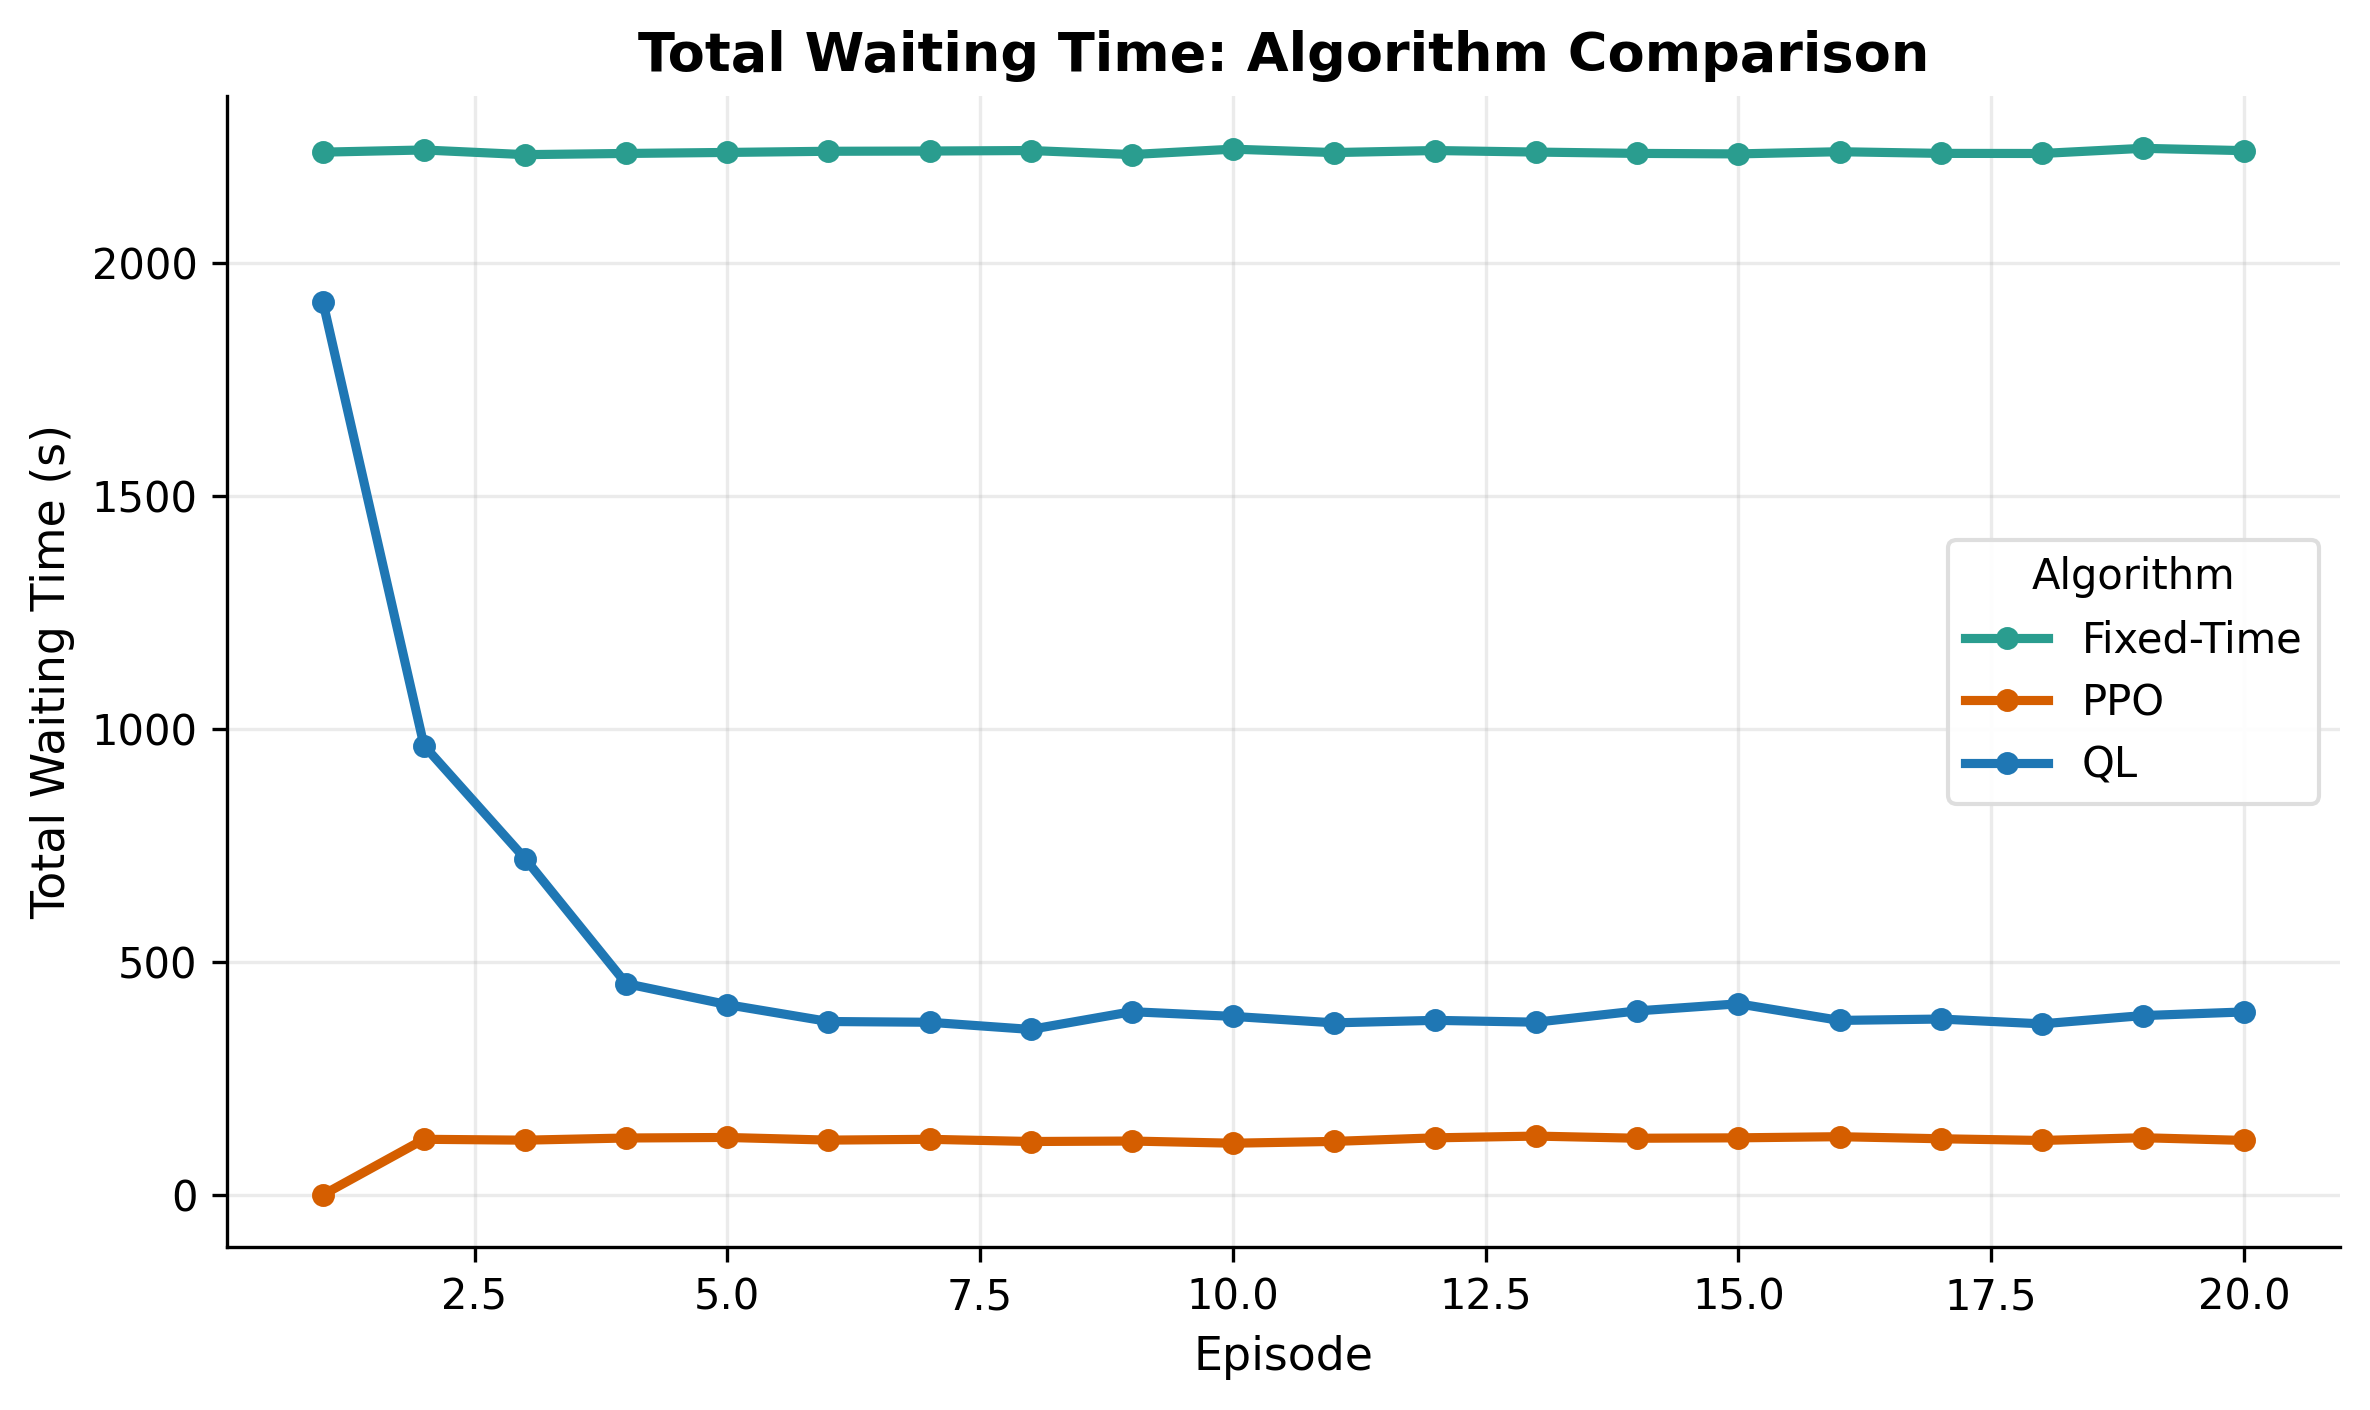
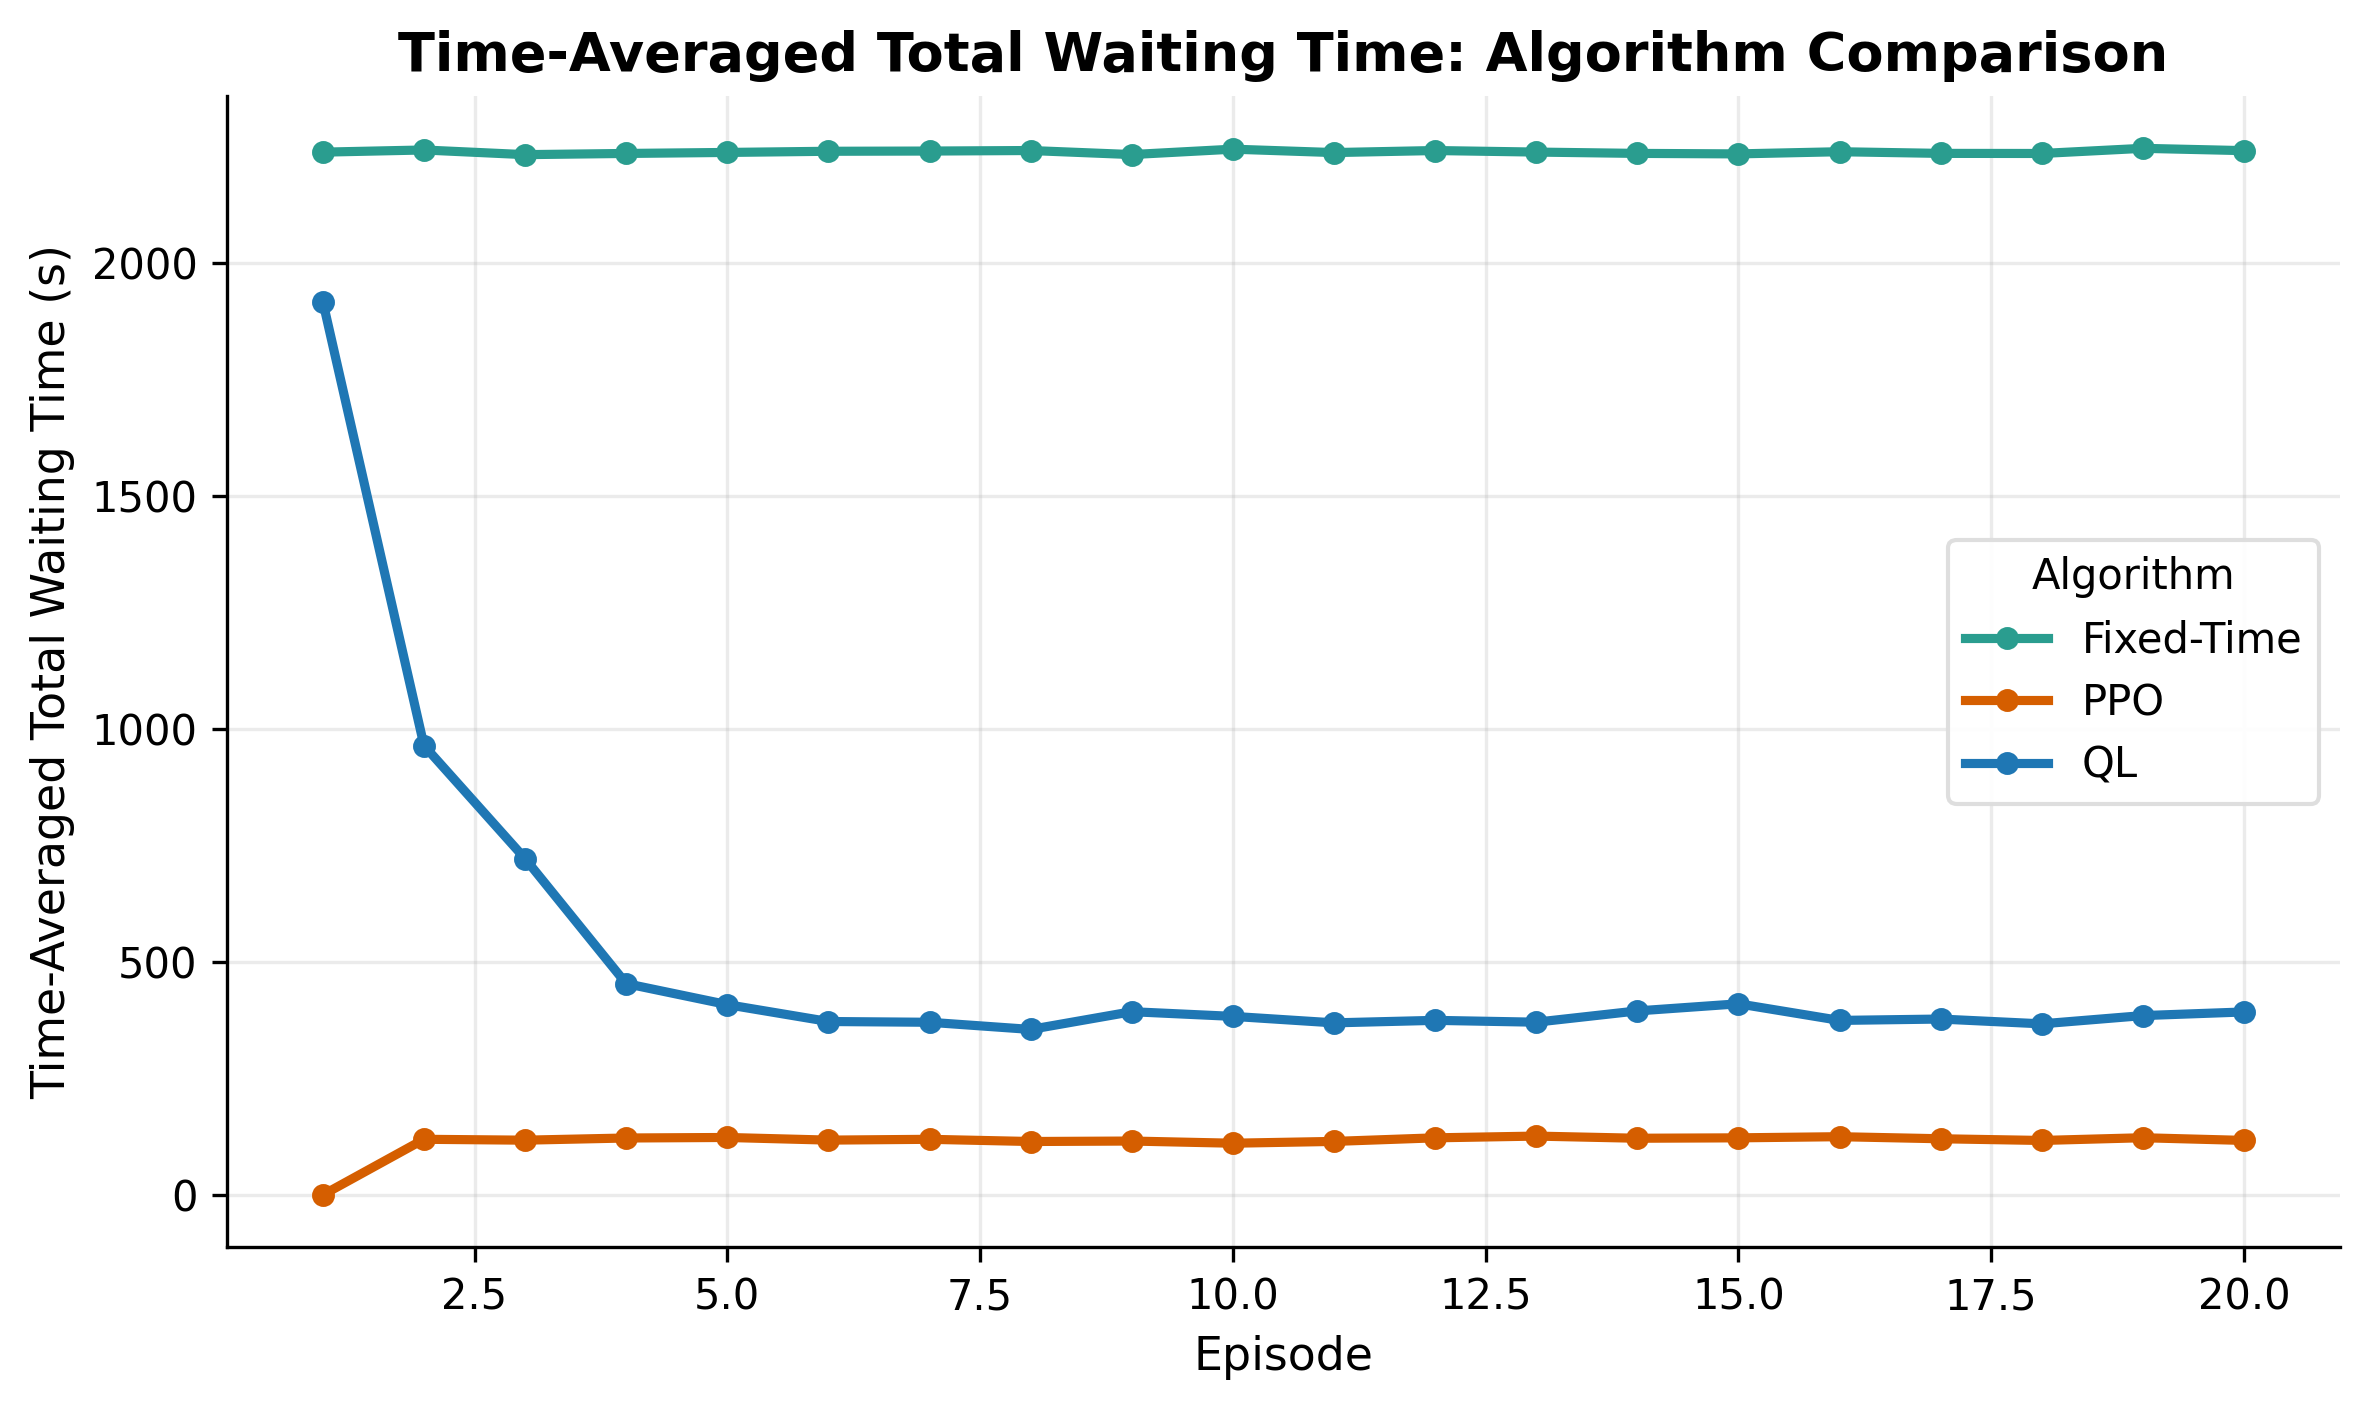
Sync total-wait plot labels with thesis text

Changed region(s): [[0.1561, 0.0, 0.9055, 0.0624], [0.0, 0.1872, 0.0312, 0.7801]]

diff --git a/experiments/plot_total_wait_comparison.py b/experiments/plot_total_wait_comparison.py
@@ -89,8 +89,8 @@ def main():
 
     style_axis(
         ax,
-        title="Total Waiting Time: Algorithm Comparison",
-        ylabel="Total Waiting Time (s)",
+        title="Time-Averaged Total Waiting Time: Algorithm Comparison",
+        ylabel="Time-Averaged Total Waiting Time (s)",
     )
     ax.legend(title="Algorithm")
     finish_and_save(fig, OUTPUT_PATH)
